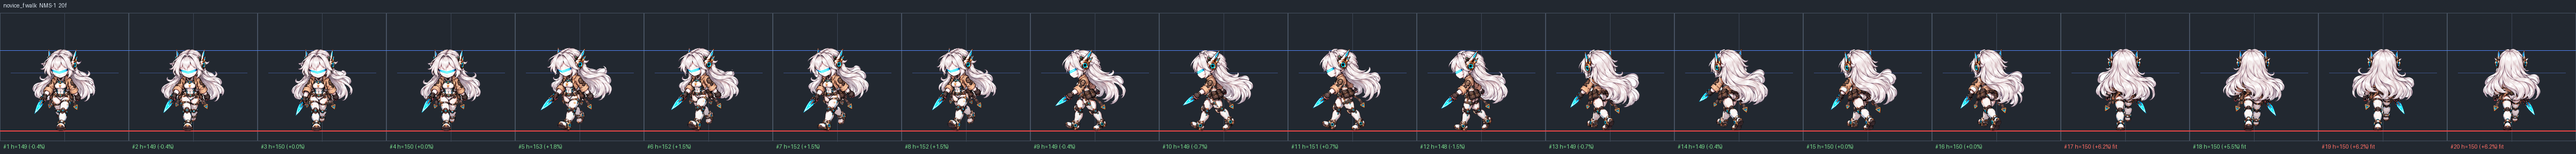
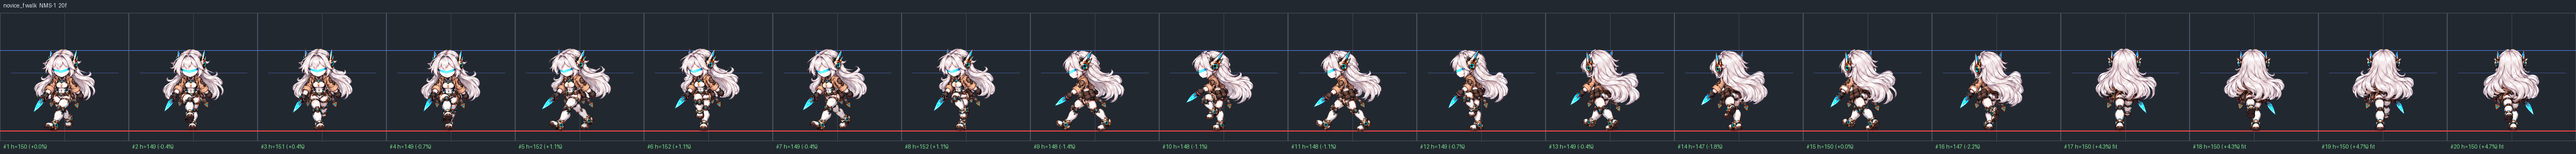
Novice (f): redo 8-direction walk with clear leg alternation
New sheet has exaggerated stride / knee-lift frames; step bob reduced since
the art now carries the motion.

Claude-Session: https://claude.ai/code/session_017QrEU6PVR1NvrPzc5r5uQv

diff --git a/js/anim.js b/js/anim.js
@@ -103,7 +103,7 @@ const Anim = {
     const row = s.dirs === 8 ? dir : 0;
     // ท่าเดิน: ยกตัวขึ้นเล็กน้อยตอนก้าวผ่าน ลงตอนเหยียบ (ขั้นละเฟรม ตามจังหวะขาในภาพ) ให้เห็นการก้าวชัดขึ้น
     let lift = 0;
-    if (s.action === 'walk' && action === 'walk') { const fr = this.feet(s.img, s.n)[row]; lift = fr && Math.max(0, f) % 2 === fr.pass ? 4 : 0; }
+    if (s.action === 'walk' && action === 'walk') { const fr = this.feet(s.img, s.n)[row]; lift = fr && Math.max(0, f) % 2 === fr.pass ? 3 : 0; }
     return { img: s.img, f: Math.max(0, f), row, flip: s.dirs === 8 ? false : st.facing > 0, lift };
   },
 
